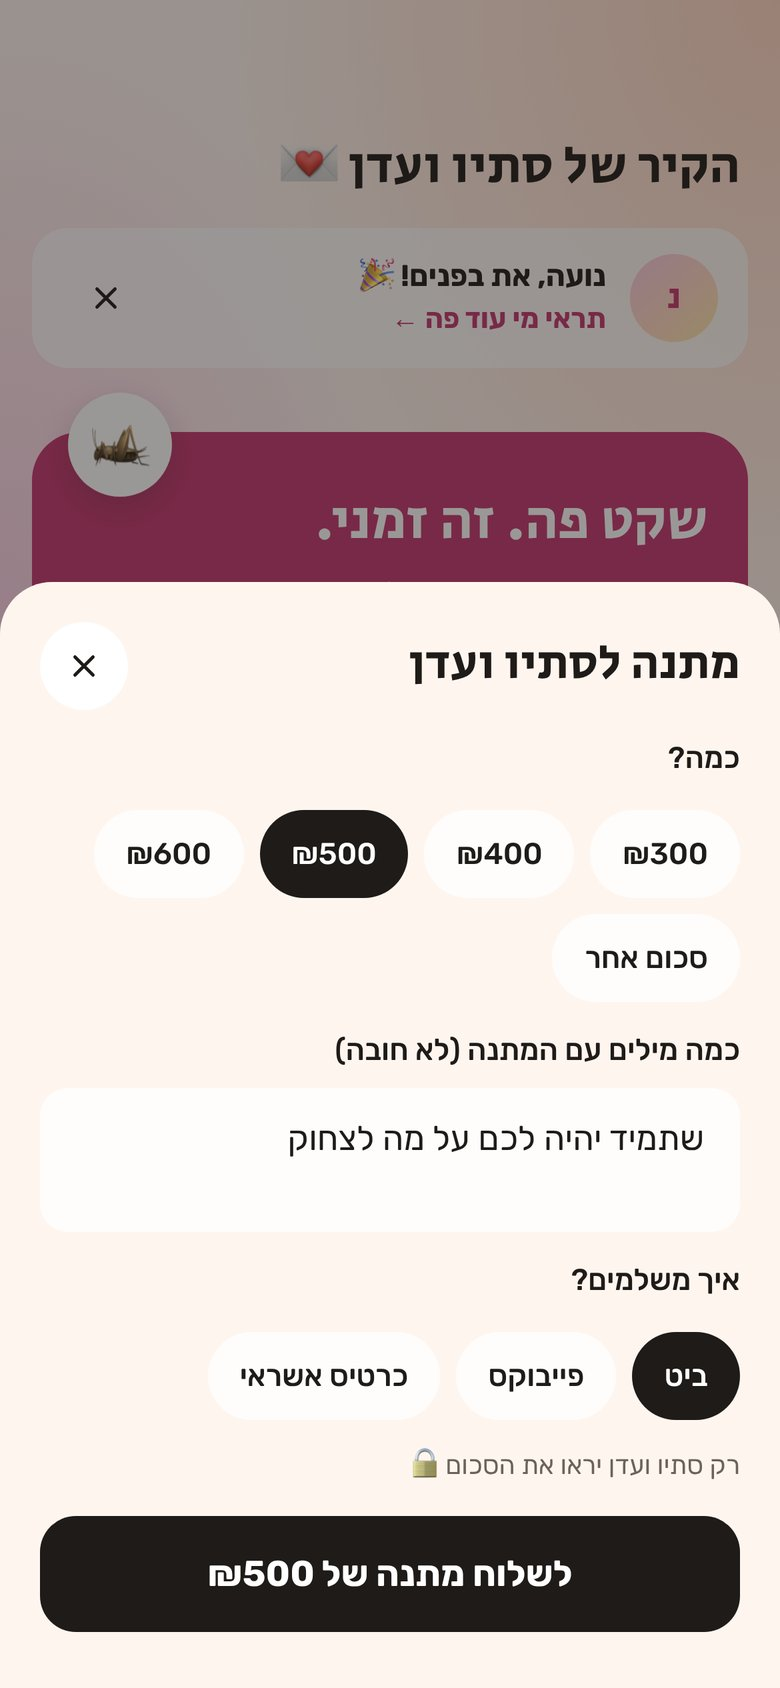
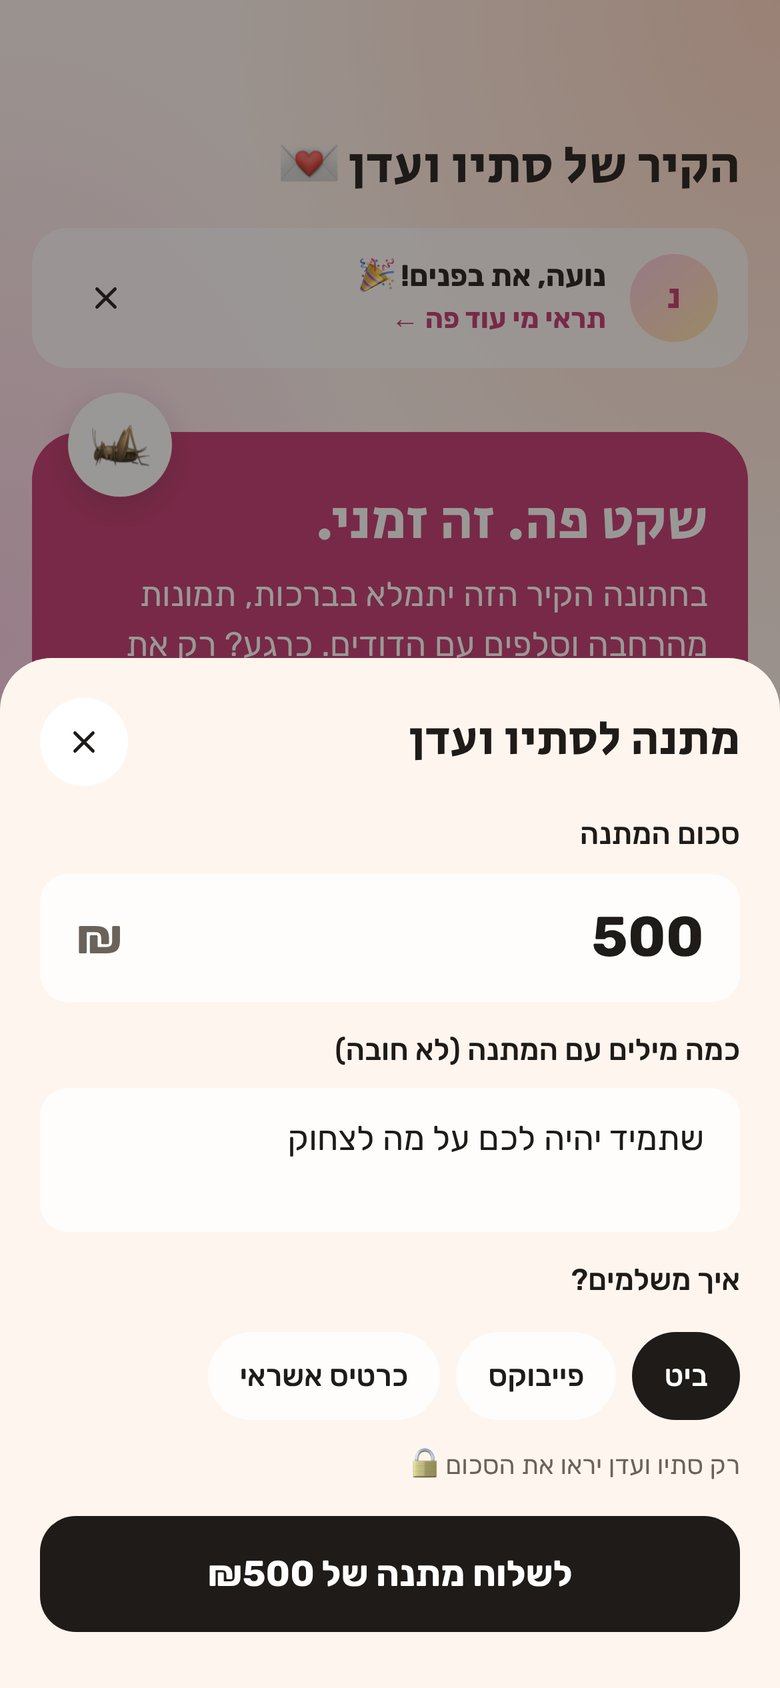
Getting: gift amount input
Claude-Session: https://claude.ai/code/session_01CtJMhMmNPj9aGCH1E7C3GP

diff --git a/getting.html b/getting.html
@@ -265,8 +265,8 @@ footer{padding:40px var(--pad) 56px;max-width:1240px;margin:0 auto;display:flex;
   </div>
 
   <div class="feat">
-   <div class="txt"><span class="n">04 — A gift</span><h3>A gift, without the envelope</h3><p>Guests can send money to the couple straight from the app, with a note. They pick an amount, add a few words and choose Bit, PayBox or a card. Only the couple sees how much.</p>
-    <ul><li>Suggested amounts, or any amount</li><li>A note that arrives with the gift</li><li>The amount stays private</li></ul></div>
+   <div class="txt"><span class="n">04 — A gift</span><h3>A gift, without the envelope</h3><p>Guests can send money to the couple straight from the app, with a note. They type an amount, add a few words and choose Bit, PayBox or a card. Only the couple sees how much.</p>
+    <ul><li>Type any amount</li><li>A note that arrives with the gift</li><li>The amount stays private</li></ul></div>
    <div class="pair"><div class="phone"><img src="media/getting/15-gift.jpg" alt="Choosing a gift"></div><div class="phone"><img src="media/getting/16-gift-sent.jpg" alt="Gift sent"></div></div>
   </div>
 
